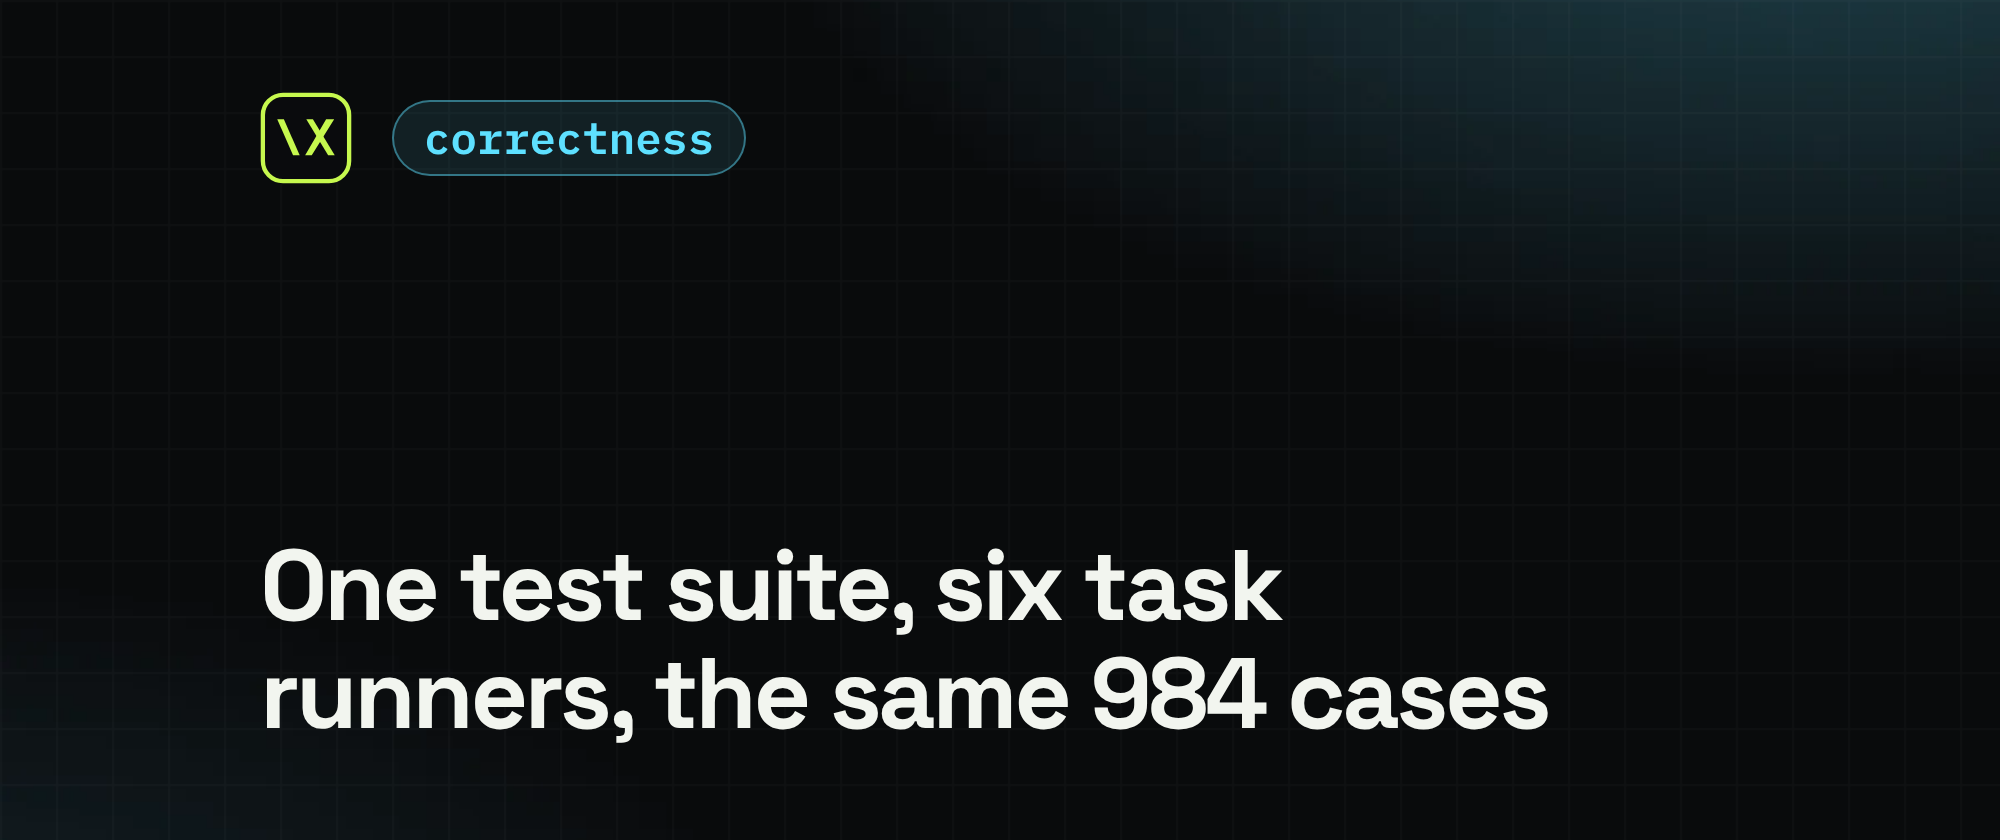
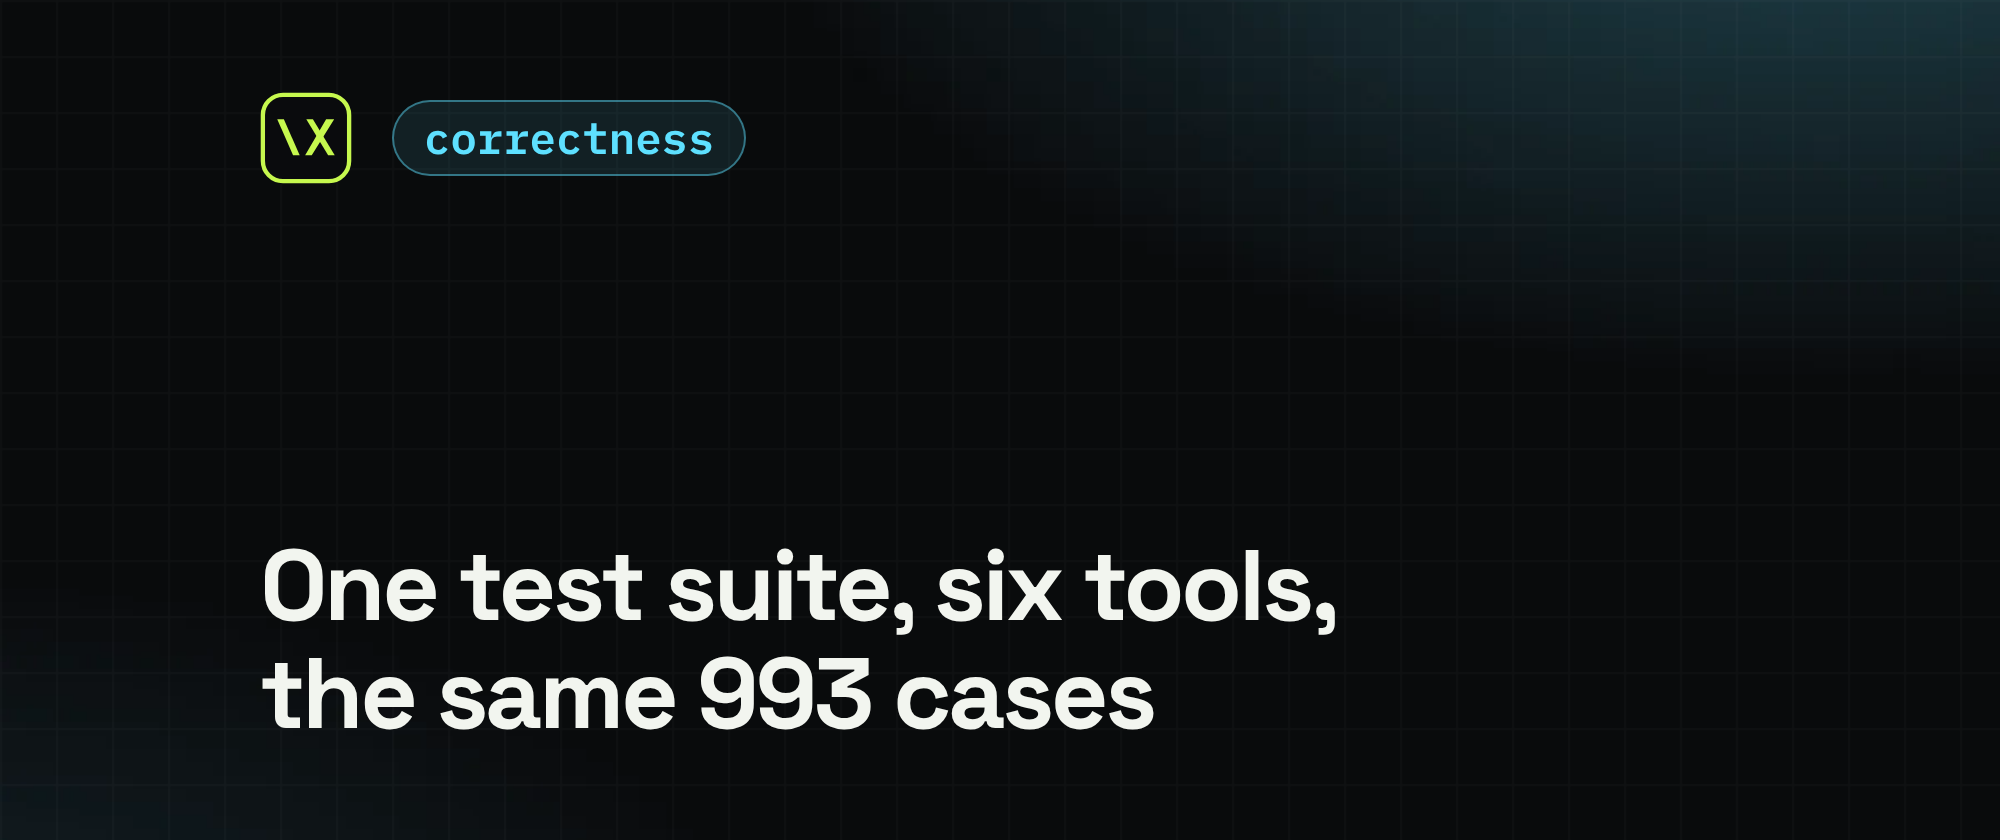
docs(blog): call vx a task orchestrator in two posts
The suite post's title and excerpt and one release line called vx a
task runner.

Claude-Session: https://claude.ai/code/session_01W6xuYXQTeS5SBgCugFvrkU

Changed region(s): [[0.124, 0.7738, 0.775, 0.8976], [0.558, 0.65, 0.682, 0.7429]]

diff --git a/private/vx-docs/src/content/docs/blog/one-suite-six-task-runners.md b/private/vx-docs/src/content/docs/blog/one-suite-six-task-runners.md
@@ -1,12 +1,12 @@
 ---
-title: 'One test suite, six task runners, the same 993 cases'
+title: 'One test suite, six tools, the same 993 cases'
 date: 2026-11-07T22:00:00Z
 authors:
   - vzn
 tags:
   - correctness
   - comparison
-excerpt: '993 task-runner cases, compiled from the test suites of Nx, Turborepo, Vite Task, moon, Nix and vx, run sandboxed against all six. Every result is on one page.'
+excerpt: '993 task orchestration cases, compiled from the test suites of Nx, Turborepo, Vite Task, moon, Nix and vx, run sandboxed against all six. Every result is on one page.'
 ---
 
 Each case is a small workspace and the outcome a user would see. All six

diff --git a/private/vx-docs/src/content/docs/releases/vx-0-0-637.md b/private/vx-docs/src/content/docs/releases/vx-0-0-637.md
@@ -38,7 +38,7 @@ Enjoy the release!
 
 ## Projects in any language
 
-A task runner should not care what a task builds. Yet our core found
+A task orchestrator should not care what a task builds. Yet our core found
 projects through `package.json`, folded every `package.json` into the
 cache keys and drew dependency edges from them. A Python service or a Go
 tool next to your packages could never be a full project, and a repo with
